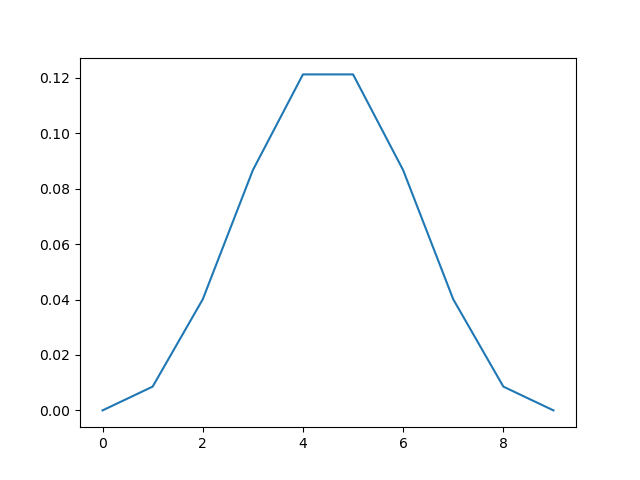
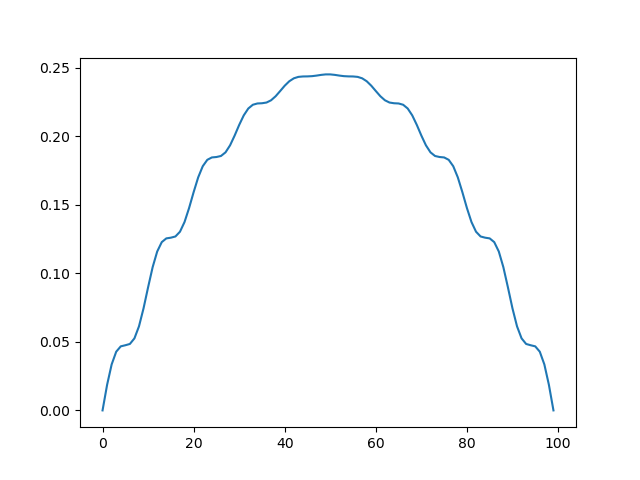
reconstruction

diff --git a/fv.py b/fv.py
@@ -11,8 +11,8 @@ import matplotlib.pyplot as plt
 import src.diffusion as D
 reload(D)
 x = np.linspace(0,1 ,10)
-x_highres = np.linspace(0,1 , 100000)
 plt.plot(x , D.oscillation(x))
+x_highres = np.linspace(0,1 , 100000)
 plt.plot(x_highres , D.oscillation(x_highres))
 plt.legend([r"$D$ Sampled on a course grid" , r"$D$"] , loc="upper right")
 plt.title("1D Diffusion Coefficient")
@@ -80,9 +80,21 @@ reload(D)
 x = np.linspace(0,1)
 plt.plot(D.noise1D(x))
 
-# Noise 2D
 
 
+# #+RESULTS:
+# : None
+
+
+import src.diffusion as D
+reload(D)
+N = 1000
+M = 1000
+x = np.linspace(0.,1., N)
+y= np.linspace(0.,1., M)
+grid = np.meshgrid(x,y)
+noise = D.noise2D(grid[0].ravel() , grid[1].ravel(), scale=5 , frequencies=50)
+sns.heatmap(noise.reshape(N,M))
 
 
 
@@ -149,6 +161,7 @@ plt.title("Sparsity Patter of A")
          micro_basis[resolution * i:resolution*(i+1)] = phi
          hm = micro_fv.h
          self._T[i] = -hm * np.sum(((phi[1:] - phi[:-1])/hm)**2 * self.D(micro_fv.x[:-1]))
+      self.micro_basis = micro_basis
       return micro_basis
 
 
@@ -157,6 +170,51 @@ plt.title("Sparsity Patter of A")
 # T_{\pm } &= -\int_{Q} D(x) (\phi'_{\pm} (x))^2\, \mathrm{d}x
 # \end{align*}
 
+
+# #+name: Reconstruct Microscale Solution
+
+   def reconstruct_multiscale(self)->NDArray[np.float64]:
+        self.reconstruction = np.zeros_like(self.micro_basis)
+        for i in range(len(self.c)-1):
+            n = len(self.micro_basis) // self.N + self.N
+            t = self.micro_basis[n*i:n*(i+1)]
+            self.reconstruction[n*i:n*(i+1)] = (1-t) * self.c[i] + t * self.c[i+1]
+
+from importlib import reload
+import src.fvsolver
+from src.fvsolver import FVSolver
+import src.diffusion as D
+reload(src.fvsolver)
+reload(D)
+fv = FVSolver(10 ,  D.oscillation)
+fv.set_boundary()
+mb = fv.set_multiscale_transmissions(100)
+fv.assemble_matrix()
+c_course = fv.solve()
+fv.reconstruct_multiscale()
+plt.plot(fv.reconstruction)
+
+
+
+# #+RESULTS:
+# [[file:images/reconstruction.png]]
+
+
+plt.plot(mb)
+
+
+
+# #+RESULTS:
+# [[file:images/msbasis.png]]
+
+
+fv.assemble_matrix()
+c_multi = fv.solve()
+plt.plot(c_multi)
+
+
+
+# #+end_src
 
 
 c_macro = sp.sparse.linalg.spsolve(A_macro.tocsr(),source)
@@ -187,11 +245,17 @@ from src.fvsolver import FVSolver
 reload(src.fvsolver)
 epsilon = 0.1
 D = lambda x: 1 / (2+1.9 * np.cos(2 * np.pi* x / epsilon))
-fv = FVSolver(10 ,  D)
+fv = FVSolver(100 ,  D)
 fv.assemble_matrix()
 fv.set_boundary()
 c_course = fv.solve()
 plt.plot(c_course)
+
+
+
+# #+RESULTS:
+# [[file:images/course1D.png]]
+
 
 mb = fv.set_multiscale_transmissions(100)
 plt.plot(mb)

diff --git a/src/fvsolver.py b/src/fvsolver.py
@@ -1,4 +1,5 @@
-# #+title: Fv
+# #+title: Multiscale Finite Volume Method
+# #+author: Karl Louis Glänzer \\ Jonathan Ulmer
 # #+startup: latexpreview
 # #+latex_compiler: lualatex
 # #+property: header-args:python :session :tangle fv.py :comments org :exports both :eval never-export
@@ -62,7 +63,16 @@ class FVSolver:
          micro_basis[resolution * i:resolution*(i+1)] = phi
          hm = micro_fv.h
          self._T[i] = -hm * np.sum(((phi[1:] - phi[:-1])/hm)**2 * self.D(micro_fv.x[:-1]))
+      self.micro_basis = micro_basis
       return micro_basis
+
+
+   def reconstruct_multiscale(self)->NDArray[np.float64]:
+        self.reconstruction = np.zeros_like(self.micro_basis)
+        for i in range(len(self.c)-1):
+            n = len(self.micro_basis) // self.N + self.N
+            t = self.micro_basis[n*i:n*(i+1)]
+            self.reconstruction[n*i:n*(i+1)] = (1-t) * self.c[i] + t * self.c[i+1]
 
 # 2D
 

diff --git a/src/diffusion.py b/src/diffusion.py
@@ -47,3 +47,19 @@ def noise1D(x,scale=10.  , frequencies=5):
         res += s(x, scale *coeffs[i,0] ,coeffs[i,1] , coeffs[i,2] )
     res = res / (2*np.sum(coeffs[:,1])) + 0.5
     return res
+
+# Noise 2D
+
+def noise2D(x,y , scale=1. , frequencies=50):
+    s = lambda x ,f , a , o: a* np.sin(f*2*np.pi*(x + o))
+    coeffs = np.random.rand(frequencies,6)
+    res = np.zeros(len(x))
+    for i in range(frequencies):
+        theta = np.pi *coeffs[i,5]
+        x_prime = x * np.cos(theta) - y * np.sin(theta)
+        y_prime = x * np.cos(theta) - y * np.sin(theta)
+        res += 0.5*(s(x_prime, scale *coeffs[i,0] ,coeffs[i,1] , coeffs[i,2] ) + s(y_prime, scale *coeffs[i,1] ,coeffs[i,3] , coeffs[i,4] ))
+
+    res = res / (2*np.sum(coeffs[:,1])) + 0.5
+    return res
+    return
